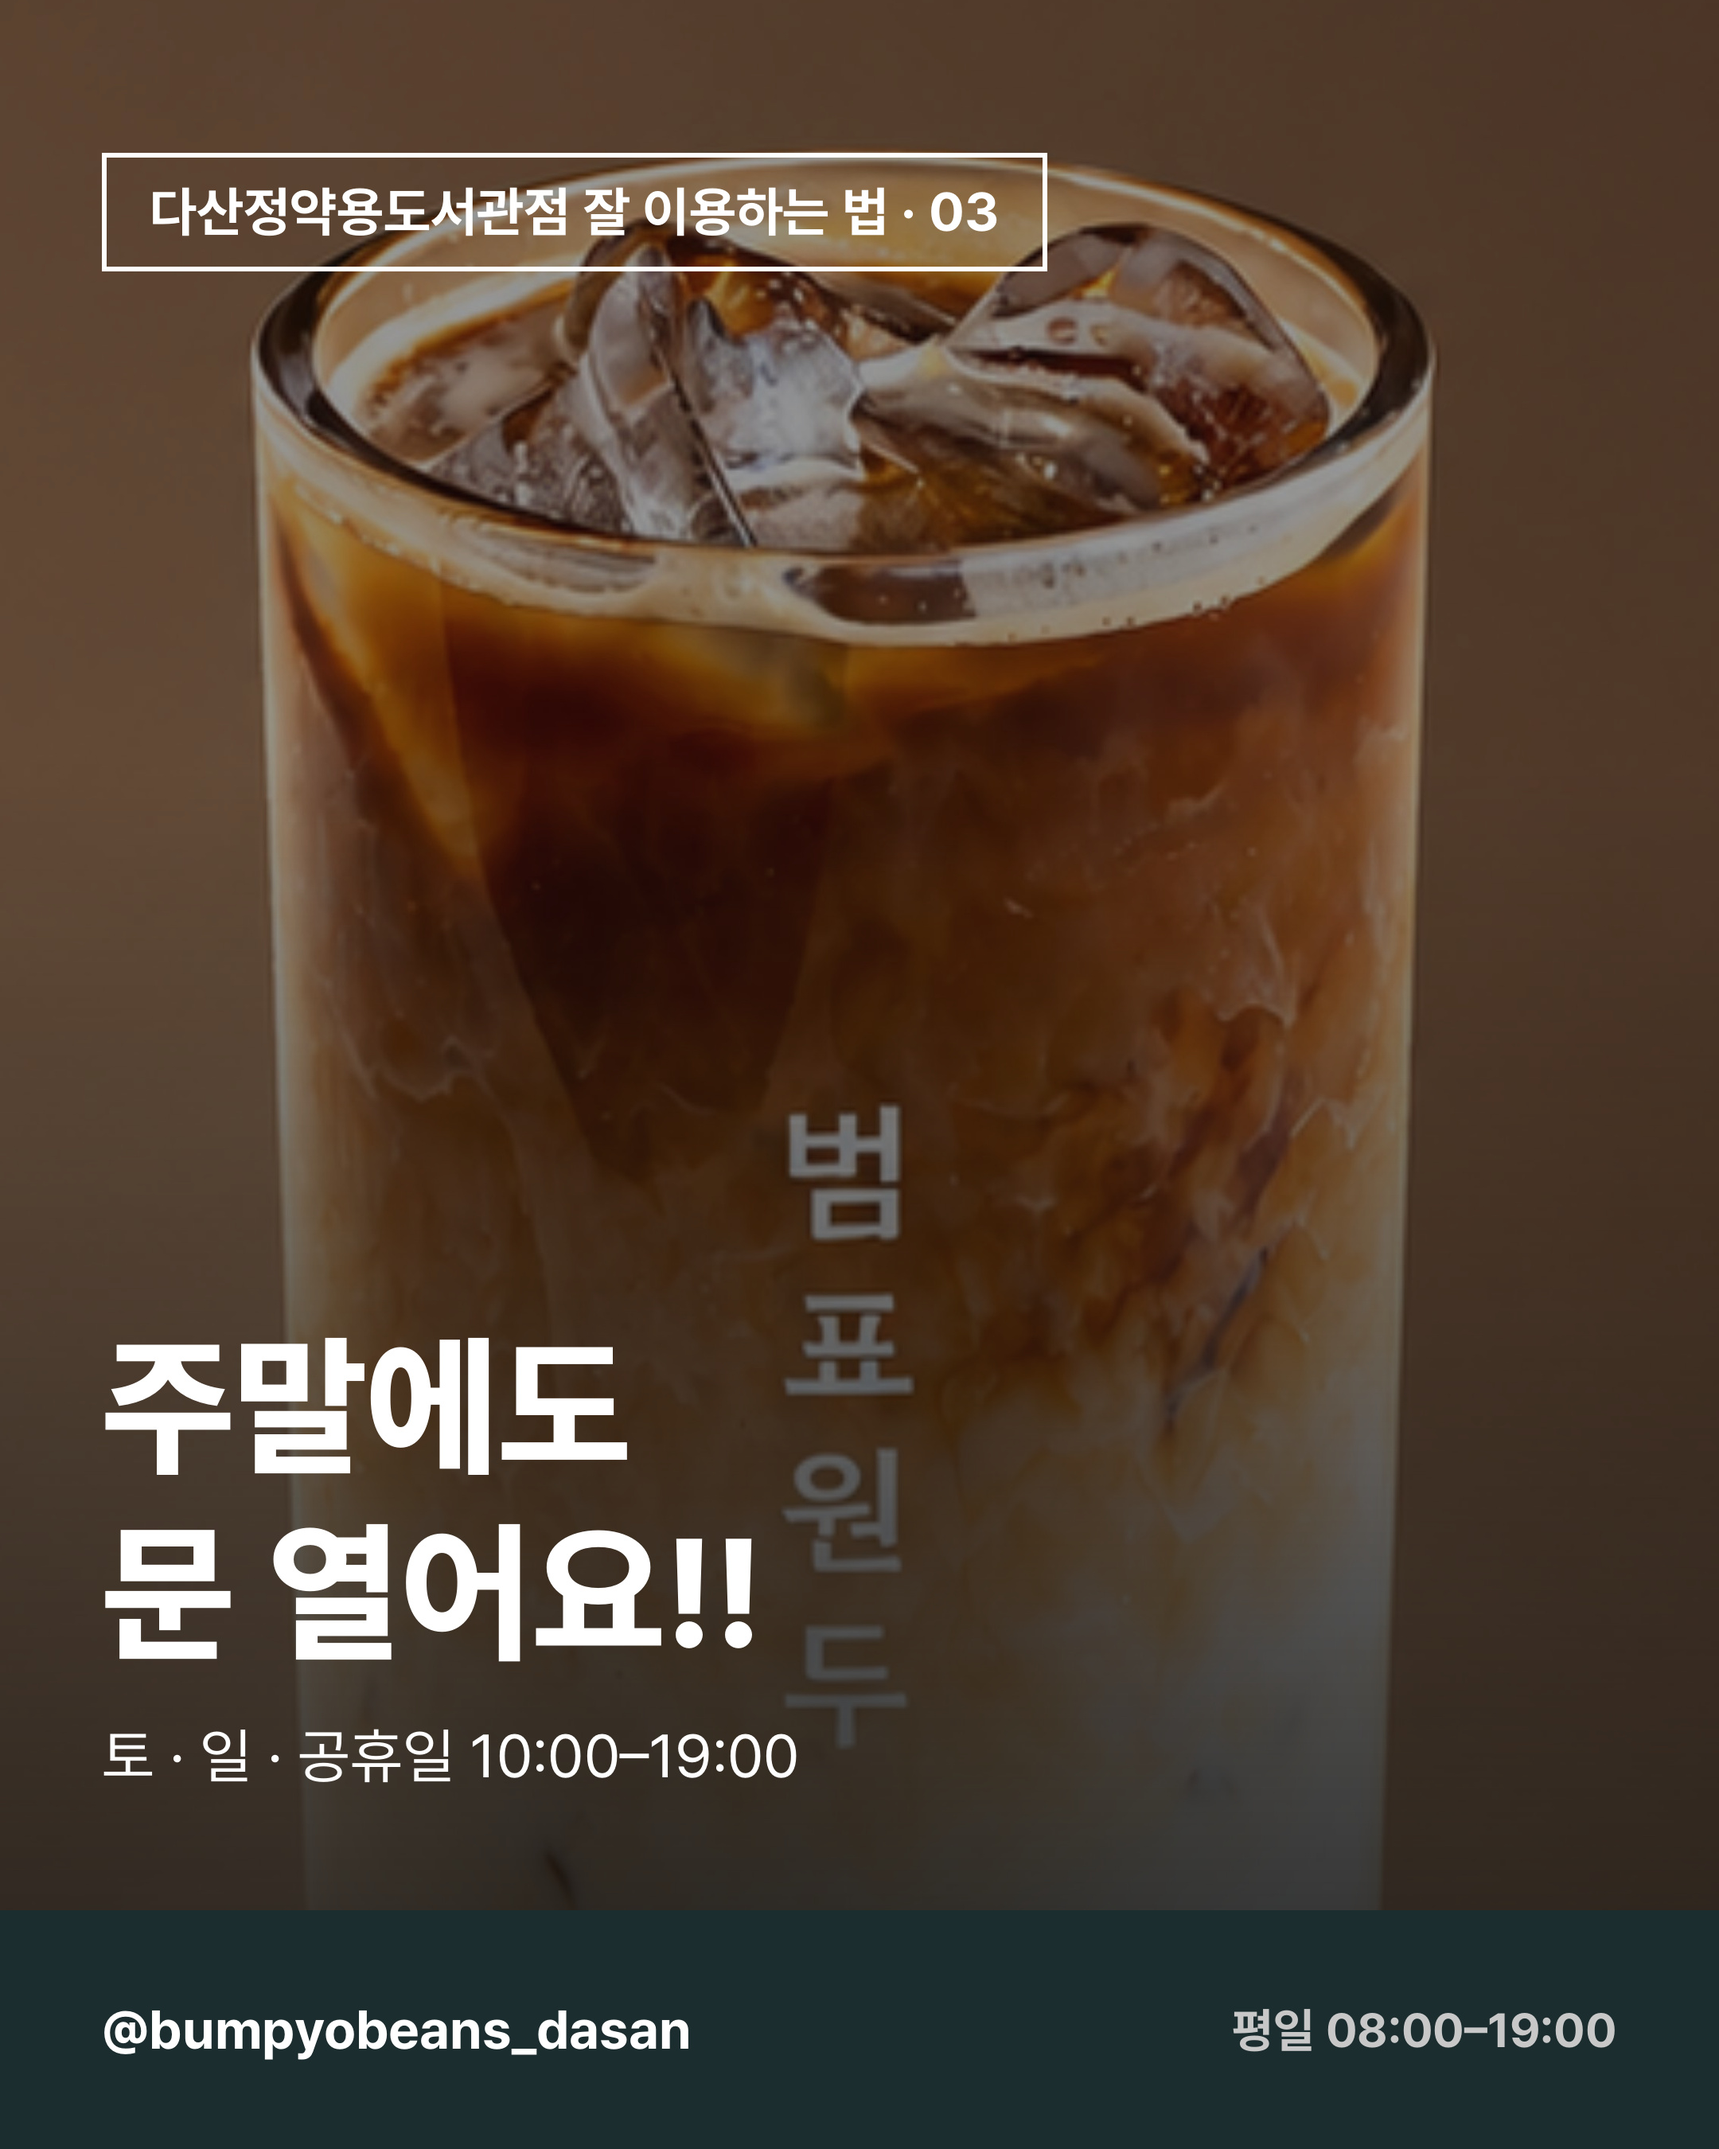
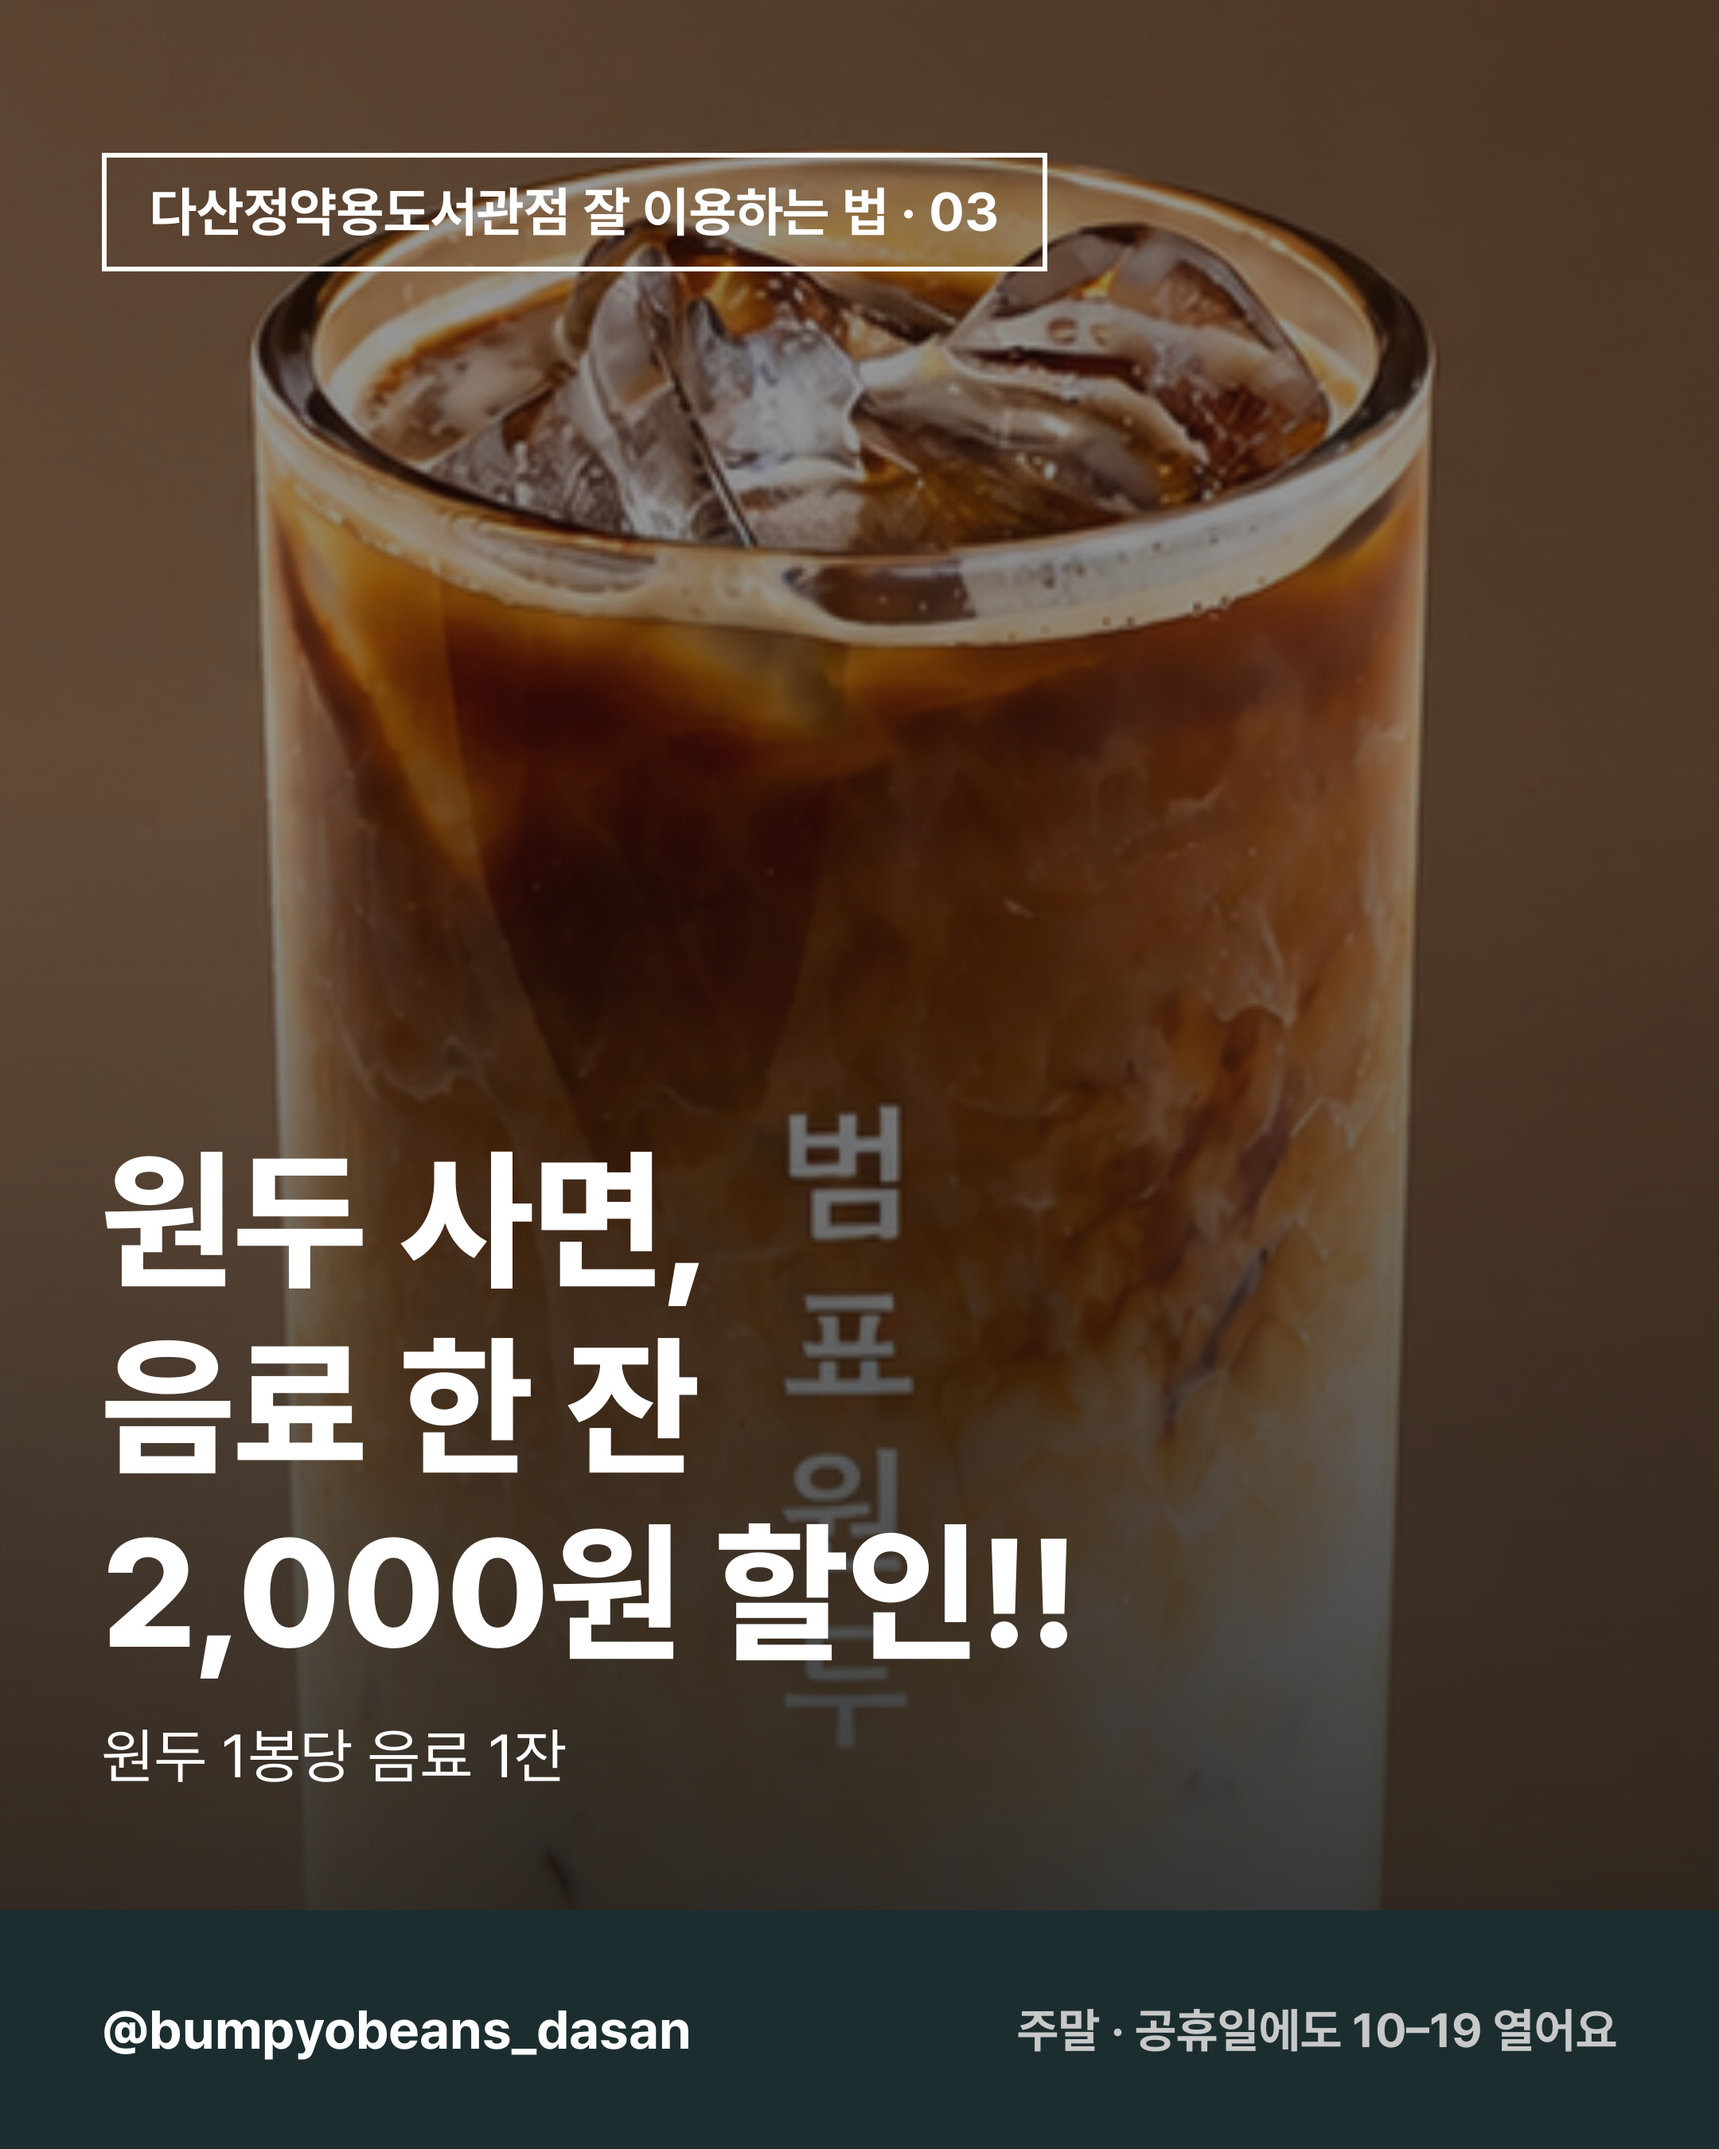
Dasan pin 3: bean purchase drink discount
Claude-Session: https://claude.ai/code/session_015nkFFMbZZ1pWpapoeisJCN

Changed region(s): [[0.062, 0.5289, 0.6204, 0.7778], [0.062, 0.8089, 0.4653, 0.84], [0.5894, 0.9333, 0.9306, 0.9644]]

diff --git a/carousel/make_dasan_pins.py b/carousel/make_dasan_pins.py
@@ -60,8 +60,8 @@ pins = [
     k.cover(handdrip, TAG.format(2), ["핸드드립", "맛집이라", "소문났어요!!"],
             "드립 커피 손님이 가장 많은 매장", HANDLE, "직접 볶으니까, 원두도 라떼도 맛있어요",
             focus=0.5, underline=()),
-    k.cover(latte, TAG.format(3), ["주말에도", "문 열어요!!"],
-            "토 · 일 · 공휴일 10:00–19:00", HANDLE, "평일 08:00–19:00",
+    k.cover(latte, TAG.format(3), ["원두 사면,", "음료 한 잔", "2,000원 할인!!"],
+            "원두 1봉당 음료 1잔", HANDLE, "주말 · 공휴일에도 10–19 열어요",
             focus=0.5, underline=()),
 ]
 for i, im in enumerate(pins, 1):
